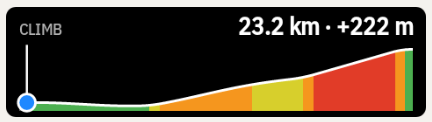
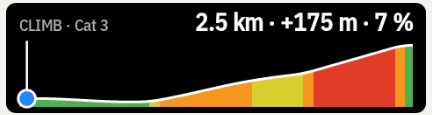
CLIMB view: category top left (CLIMB · Cat 2), distance, ascent and average grade of the whole climb while approaching, of what is left once on it; categories by ascent (80/160/320/640/800 m, the Karoo's total elevation or length x grade) in plain words in the app and README

diff --git a/app/src/main/kotlin/com/anpaiss/routeprofile/Profile.kt b/app/src/main/kotlin/com/anpaiss/routeprofile/Profile.kt
@@ -7,29 +7,61 @@ import kotlin.math.min
 enum class Shade { DESCENT, EASY, MODERATE, HARD, STEEP, VERY_STEEP }
 
 /**
- * Climb categories by score = length (m) × average grade (%), Strava/UCI style
- * (Andrea, 13/11/2026). The Karoo's climbs carry no category, so we compute it.
+ * Climb categories (Andrea, 13/11/2026). The usual score is length (m) × average grade (%),
+ * which is 100 × the climb's elevation gain: so each category is an ascent threshold.
+ * The Karoo's climbs carry no category, so we compute it.
  */
-enum class ClimbCategory(val label: String, val minScore: Double) {
-    UNCATEGORIZED("Uncategorized", 0.0),
-    CAT4("Cat 4", 8_000.0),
-    CAT3("Cat 3", 16_000.0),
-    CAT2("Cat 2", 32_000.0),
-    CAT1("Cat 1", 64_000.0),
-    HC("HC", 80_000.0);
+enum class ClimbCategory(val label: String, val minAscentM: Double, val example: String) {
+    UNCATEGORIZED("Uncategorized", 0.0, "overpasses, short ramps"),
+    CAT4("Cat 4", 80.0, "1 km at 8 %"),
+    CAT3("Cat 3", 160.0, "2 km at 8 %"),
+    CAT2("Cat 2", 320.0, "4 km at 8 %"),
+    CAT1("Cat 1", 640.0, "8 km at 8 %"),
+    HC("HC", 800.0, "10 km at 8 %");
+
+    /** The plain-words line of the app: "Cat 4 — climbs from 80 m of ascent (e.g. 1 km at 8 %)". */
+    val description: String get() =
+        if (this == UNCATEGORIZED) "$label — under ${CAT4.minAscentM.toInt()} m ($example)"
+        else "$label — climbs from ${minAscentM.toInt()} m of ascent (e.g. $example)"
 
     companion object {
-        fun of(lengthM: Double, gradePct: Double): ClimbCategory {
-            val score = lengthM * gradePct
-            return entries.lastOrNull { score >= it.minScore } ?: UNCATEGORIZED
-        }
+        fun ofAscent(ascentM: Double): ClimbCategory =
+            entries.lastOrNull { ascentM >= it.minAscentM } ?: UNCATEGORIZED
+
+        /** From length and grade: score length × grade = 100 × ascent. */
+        fun of(lengthM: Double, gradePct: Double): ClimbCategory = ofAscent(lengthM * gradePct / 100.0)
     }
 }
 
-/** A climb as the Karoo lists it on the route (start along the route and length, metres; average grade, %). */
-data class ClimbSpan(val startM: Double, val lengthM: Double, val gradePct: Double = 0.0) {
+/**
+ * A climb as the Karoo lists it on the route: start along the route and length (m), average
+ * grade (%) and, when the Karoo gives it, its total elevation gain (m).
+ */
+data class ClimbSpan(val startM: Double, val lengthM: Double, val gradePct: Double = 0.0, val totalElevationM: Double = 0.0) {
     val endM get() = startM + lengthM
-    val category get() = ClimbCategory.of(lengthM, gradePct)
+    /** The Karoo's total elevation when it has one, else length × grade / 100. */
+    val ascentM get() = if (totalElevationM > 0.0) totalElevationM else lengthM * gradePct / 100.0
+    val category get() = ClimbCategory.ofAscent(ascentM)
+}
+
+/** The numbers of the CLIMB view: distance, ascent and average grade (of what is left, once on it). */
+data class ClimbNumbers(val distanceM: Double, val ascentM: Double, val gradePct: Double, val onClimb: Boolean) {
+    companion object {
+        /**
+         * Approaching (before the start): the whole climb as the Karoo lists it.
+         * On the climb: from the rider to the top, on the route's own elevation.
+         */
+        fun of(profile: Profile, climb: ClimbSpan, posM: Double?): ClimbNumbers {
+            if (posM == null || posM < climb.startM) {
+                val grade = if (climb.gradePct > 0) climb.gradePct else climb.ascentM / climb.lengthM * 100.0
+                return ClimbNumbers(climb.lengthM, climb.ascentM, grade, onClimb = false)
+            }
+            val left = (climb.endM - posM).coerceAtLeast(0.0)
+            val up = profile.ascentBetween(posM, climb.endM)
+            val grade = if (left > 0) (profile.elevationAt(climb.endM) - profile.elevationAt(posM)) / left * 100.0 else 0.0
+            return ClimbNumbers(left, up, grade, onClimb = true)
+        }
+    }
 }
 
 /**
@@ -97,12 +129,22 @@ class Profile private constructor(val stepM: Double, val ele: DoubleArray, priva
      * every 50 m, not on the smoothed drawing: the smoothing rounded summits off and gave
      * 886 m on a route Komoot puts at 963 m (Valmaron, 13/11/2026).
      */
-    fun ascentFrom(fromM: Double): Double {
-        val x = (fromM / stepM).coerceIn(0.0, (raw.size - 1).toDouble())
-        val i0 = x.toInt().coerceAtMost(raw.size - 2)
-        val here = raw[i0] + (raw[i0 + 1] - raw[i0]) * (x - i0)
-        var up = max(0.0, raw[i0 + 1] - here)
-        for (i in i0 + 1 until raw.size - 1) up += max(0.0, raw[i + 1] - raw[i])
+    fun ascentFrom(fromM: Double): Double = ascentBetween(fromM, totalM)
+
+    /** Ascent between two points of the route, metres, on the unsmoothed samples. */
+    fun ascentBetween(fromM: Double, toM: Double): Double {
+        if (toM <= fromM) return 0.0
+        fun at(m: Double): Double {
+            val x = (m / stepM).coerceIn(0.0, (raw.size - 1).toDouble())
+            val i = x.toInt().coerceAtMost(raw.size - 2)
+            return raw[i] + (raw[i + 1] - raw[i]) * (x - i)
+        }
+        val i0 = (fromM / stepM).toInt().coerceIn(0, raw.size - 1)
+        val i1 = (toM / stepM).toInt().coerceIn(0, raw.size - 1)
+        var prev = at(fromM)
+        var up = 0.0
+        for (i in i0 + 1..i1) { up += max(0.0, raw[i] - prev); prev = raw[i] }
+        up += max(0.0, at(toM) - prev)
         return up
     }
 

diff --git a/app/src/test/kotlin/com/anpaiss/routeprofile/ProfileTest.kt b/app/src/test/kotlin/com/anpaiss/routeprofile/ProfileTest.kt
@@ -84,6 +84,38 @@ class ProfileTest {
         assertEquals(ClimbCategory.UNCATEGORIZED, ClimbCategory.of(5_000.0, -3.0))   // negative: never a climb
     }
 
+    @Test fun `category from the Karoo's total elevation when it has one`() {
+        // 4 km at 7 % says 280 m (Cat 3), the Karoo measured 330 m: Cat 2
+        assertEquals(ClimbCategory.CAT2, ClimbSpan(0.0, 4_000.0, 7.0, 330.0).category)
+        assertEquals(ClimbCategory.CAT3, ClimbSpan(0.0, 4_000.0, 7.0).category)
+        assertEquals("Cat 4 — climbs from 80 m of ascent (e.g. 1 km at 8 %)", ClimbCategory.CAT4.description)
+        assertEquals("Uncategorized — under 80 m (overpasses, short ramps)", ClimbCategory.UNCATEGORIZED.description)
+        assertEquals("HC — climbs from 800 m of ascent (e.g. 10 km at 8 %)", ClimbCategory.HC.description)
+    }
+
+    @Test fun `climb numbers approaching are the whole climb`() {
+        // flat 2 km, then 4 km at 8 % (320 m), then flat
+        val p = Profile.of(listOf(0.0 to 500.0, 2_000.0 to 500.0, 6_000.0 to 820.0, 8_000.0 to 820.0))!!
+        val climb = ClimbSpan(2_000.0, 4_000.0, 8.0, 320.0)
+        val n = ClimbNumbers.of(p, climb, 1_000.0)
+        assertTrue(!n.onClimb)
+        assertEquals(4_000.0, n.distanceM, 0.1)
+        assertEquals(320.0, n.ascentM, 0.1)
+        assertEquals(8.0, n.gradePct, 0.01)
+    }
+
+    @Test fun `climb numbers on the climb are what is left to the top`() {
+        val p = Profile.of(listOf(0.0 to 500.0, 2_000.0 to 500.0, 6_000.0 to 820.0, 8_000.0 to 820.0))!!
+        val climb = ClimbSpan(2_000.0, 4_000.0, 8.0, 320.0)
+        val n = ClimbNumbers.of(p, climb, 4_200.0)
+        assertTrue(n.onClimb)
+        assertEquals(1_800.0, n.distanceM, 0.1)
+        assertEquals(144.0, n.ascentM, 3.0)
+        assertEquals(8.0, n.gradePct, 0.3)
+        // at the top: nothing left
+        assertEquals(0.0, ClimbNumbers.of(p, climb, 6_000.0).distanceM, 0.1)
+    }
+
     @Test fun `auto zoom only for enabled categories`() {
         val overpass = ClimbSpan(5_000.0, 300.0, 6.0)
         val cat2 = ClimbSpan(20_000.0, 5_000.0, 7.0)

diff --git a/app/src/main/kotlin/com/anpaiss/routeprofile/MainActivity.kt b/app/src/main/kotlin/com/anpaiss/routeprofile/MainActivity.kt
@@ -46,12 +46,10 @@ class MainActivity : Activity() {
             "A tap always switches; the automatic choice takes over again at the next climb.", 13f))
 
         col.addView(text("Zoom on these climbs", 15f, bold = true).apply { setPadding(0, dp(12), 0, dp(2)) })
-        col.addView(text("Category from length (m) × average grade (%): Cat 4 from 8,000, Cat 3 from 16,000, " +
-            "Cat 2 from 32,000, Cat 1 from 64,000, HC from 80,000. Below 8,000: uncategorized (an overpass, a short ramp).", 13f))
+        col.addView(text("A climb's category goes by how much it climbs.", 13f))
         val catSwitches = ClimbCategory.entries.map { cat ->
             Switch(this).apply {
-                val hint = if (cat == ClimbCategory.UNCATEGORIZED) "score below 8,000" else "score from %,d".format(cat.minScore.toInt())
-                text = "${cat.label}  ($hint)"; textSize = 16f
+                text = cat.description; textSize = 16f
                 isChecked = Prefs.zoomOn(this@MainActivity, cat)
                 isEnabled = sw.isChecked
                 setPadding(dp(12), dp(6), 0, dp(6))
@@ -80,7 +78,8 @@ class MainActivity : Activity() {
             }, LinearLayout.LayoutParams(shownW, shownW * h / w).apply { bottomMargin = dp(8) })
         }
         preview("Map page, bottom row (478×126): whole route", ProfileState.sample(Zoom.WHOLE), 478, 126)
-        preview("Auto zoom, approaching a climb: the climb fitted to the cell", ProfileState.sample(Zoom.CLIMB), 478, 126)
+        preview("Auto zoom, approaching a climb: the whole climb fitted to the cell", ProfileState.sample(Zoom.CLIMB), 478, 126)
+        preview("On the climb: what is left to the top", ProfileState.sample(Zoom.CLIMB, atM = 17_000.0), 478, 126)
         preview("A tap with no climb near: next 10 km", ProfileState.sample(Zoom.AHEAD), 478, 126)
         preview("Taller cell (478×212)", ProfileState.sample(Zoom.WHOLE), 478, 212)
         preview("Half cell (238×126)", ProfileState.sample(Zoom.WHOLE), 238, 126)

diff --git a/app/src/main/kotlin/com/anpaiss/routeprofile/ProfileRenderer.kt b/app/src/main/kotlin/com/anpaiss/routeprofile/ProfileRenderer.kt
@@ -54,7 +54,12 @@ object ProfileRenderer {
         // Top line, as high as the cell allows but never more than a fifth of it
         val lineH = (bmp.height * 0.24f).coerceIn(14 * px, 24 * px)
         val pad = 4 * px
-        val numbers = String.format(Locale.US, "%.1f km · +%d m",
+        val climb = state.climb
+        val numbers = if (state.zoom == Zoom.CLIMB && climb != null) {
+            // on the climb: what is left to the top; approaching: the whole climb
+            val n = ClimbNumbers.of(p, climb, state.posM)
+            String.format(Locale.US, "%.1f km · +%d m · %d %%", n.distanceM / 1000.0, Math.round(n.ascentM), Math.round(n.gradePct))
+        } else String.format(Locale.US, "%.1f km · +%d m",
             (state.remainingM ?: 0.0) / 1000.0, Math.round(state.remainingAscentM ?: 0.0))
         text.typeface = condensedBold; text.color = Color.WHITE; text.textSize = lineH * 0.92f
         text.textAlign = Paint.Align.RIGHT
@@ -63,7 +68,11 @@ object ProfileRenderer {
         val numbersW = text.measureText(numbers)
         text.typeface = condensed; text.color = LABEL; text.textSize = lineH * 0.62f
         text.textAlign = Paint.Align.LEFT
-        val label = when (state.zoom) { Zoom.AHEAD -> "NEXT 10 KM"; Zoom.CLIMB -> "CLIMB"; Zoom.WHOLE -> "ROUTE" }
+        val label = when (state.zoom) {
+            Zoom.AHEAD -> "NEXT 10 KM"
+            Zoom.CLIMB -> climb?.category?.takeIf { it != ClimbCategory.UNCATEGORIZED }?.let { "CLIMB · ${it.label}" } ?: "CLIMB"
+            Zoom.WHOLE -> "ROUTE"
+        }
         // narrow cell: the numbers matter more than the label
         if (2 * pad + text.measureText(label) + 8 * px + numbersW <= bmp.width - 2 * pad) c.drawText(label, 2 * pad, base, text)
 

diff --git a/app/src/main/kotlin/com/anpaiss/routeprofile/ProfileState.kt b/app/src/main/kotlin/com/anpaiss/routeprofile/ProfileState.kt
@@ -17,9 +17,9 @@ data class ProfileState(
          * Sample for the profile editor and the FIELD PREVIEW: a 40 km loop like the
          * Barricata (long climb, short climb on the top, long descent, flat back), rider at km 14.5.
          */
-        fun sample(zoom: Zoom = Zoom.WHOLE): ProfileState {
+        fun sample(zoom: Zoom = Zoom.WHOLE, atM: Double? = null): ProfileState {
             // CLIMB: the rider 1.2 km before the second climb (km 16, 2.5 km), so the fitted view shows the approach too
-            val pos = if (zoom == Zoom.CLIMB) 14_800.0 else 14_500.0
+            val pos = atM ?: if (zoom == Zoom.CLIMB) 14_800.0 else 14_500.0
             val pts = ArrayList<Pair<Double, Double>>()
             var e = 320.0
             var d = 0.0

diff --git a/app/src/main/kotlin/com/anpaiss/routeprofile/RouteProfileExtension.kt b/app/src/main/kotlin/com/anpaiss/routeprofile/RouteProfileExtension.kt
@@ -80,7 +80,7 @@ class RouteProfileExtension : KarooExtension("routeprofile", BuildConfig.VERSION
                 RouteData(nav.polyline.orEmpty(), nav.elevationPolyline.orEmpty(), nav.climbs, false, null)
             else -> RouteData("", "", emptyList(), false, null)
         }
-        val climbSpans = climbs.map { ClimbSpan(it.startDistance, it.length, it.grade) }
+        val climbSpans = climbs.map { ClimbSpan(it.startDistance, it.length, it.grade, it.totalElevation) }
         if (line.isBlank() || elev.isBlank()) {
             if (routeKey.isNotEmpty() && nav !is OnNavigationState.NavigationState.NavigatingRoute &&
                 nav !is OnNavigationState.NavigationState.NavigatingToDestination) clearRoute()

diff --git a/README.md b/README.md
@@ -18,7 +18,7 @@ RouteProfile adds one data field, **Route profile**, made for the bottom row of 
 - **The whole route**, start to finish. The part you have ridden is grey; the part ahead is coloured by gradient: green below 3 %, yellow 3–6 %, orange 6–9 %, red 9–12 %, dark red from 12 %, blue downhill.
 - **Where you are**: a dot and a vertical line.
 - **What is left**, top right: kilometres to the end of the route and metres of climbing still to do.
-- **Auto zoom on climbs**: when a climb starts within 2 km, and while you are on it, the field shows **that climb across its whole width**, start to top, with a small margin (3 % of its length, at least 50 m): a 2 km ramp and a 15 km pass both fill the cell. While you are still approaching it, the view starts at your position, so you see how far the climb is. The label reads CLIMB; after the top it goes back to the whole route. You choose which climbs (see Settings).
+- **Auto zoom on climbs**: when a climb starts within 2 km, and while you are on it, the field shows **that climb across its whole width**, start to top, with a small margin (3 % of its length, at least 50 m): a 2 km ramp and a 15 km pass both fill the cell. While you are still approaching it, the view starts at your position, so you see how far the climb is. Top left it reads **CLIMB · Cat 2** (the climb's category, see Settings). Top right: while you approach, the whole climb, e.g. `4.0 km · +320 m · 8 %`; once on it, what is left to the top, e.g. `1.8 km · +142 m · 8 %` (distance, ascent, average grade). After the top it goes back to the whole route and its numbers. You choose which climbs (see Settings).
 - **Tap the field** to switch between the whole route and the climb when one is near or under you, otherwise the **next 10 km**, with the gradient in 100 m bands. A tap wins until the next climb.
 - No route loaded: the field says **No route**.
 
@@ -43,16 +43,16 @@ It is not on the Hammerhead app store, but once installed it appears in the Karo
 Open **RouteProfile** from the Karoo's app list.
 
 - **Auto zoom on climbs**: on by default.
-- **Zoom on these climbs**: one switch per climb category. The Karoo lists the climbs of a route but gives them no category, so RouteProfile scores each one as **length in metres × average gradient in %**, as Strava does:
+- **Zoom on these climbs**: one switch per climb category. The Karoo lists the climbs of a route but gives them no category, so RouteProfile gives them one by how much they climb (the Karoo's elevation gain of the climb, or length × grade when it has none). It is the usual length × average-grade score, which is 100 × the elevation gain:
 
-  | Category | Score | Example |
+  | Category | Climbs from | Example |
   |---|---|---|
-  | Uncategorized | below 8,000 | an overpass, a short ramp (off by default) |
-  | Cat 4 | from 8,000 | 1 km at 8 % |
-  | Cat 3 | from 16,000 | 2 km at 8 % |
-  | Cat 2 | from 32,000 | 4 km at 8 % |
-  | Cat 1 | from 64,000 | 8 km at 8 % |
-  | HC | from 80,000 | 10 km at 8 % |
+  | Uncategorized | under 80 m of ascent | overpasses, short ramps (off by default) |
+  | Cat 4 | 80 m | 1 km at 8 % |
+  | Cat 3 | 160 m | 2 km at 8 % |
+  | Cat 2 | 320 m | 4 km at 8 % |
+  | Cat 1 | 640 m | 8 km at 8 % |
+  | HC | 800 m | 10 km at 8 % |
 
 - **FIELD PREVIEW**: the field drawn by its own code at the real sizes of the Karoo cells (map page bottom row: whole route, a climb fitted by the auto zoom, the next 10 km; a taller cell, a half cell, no route), with a sample route.
 
